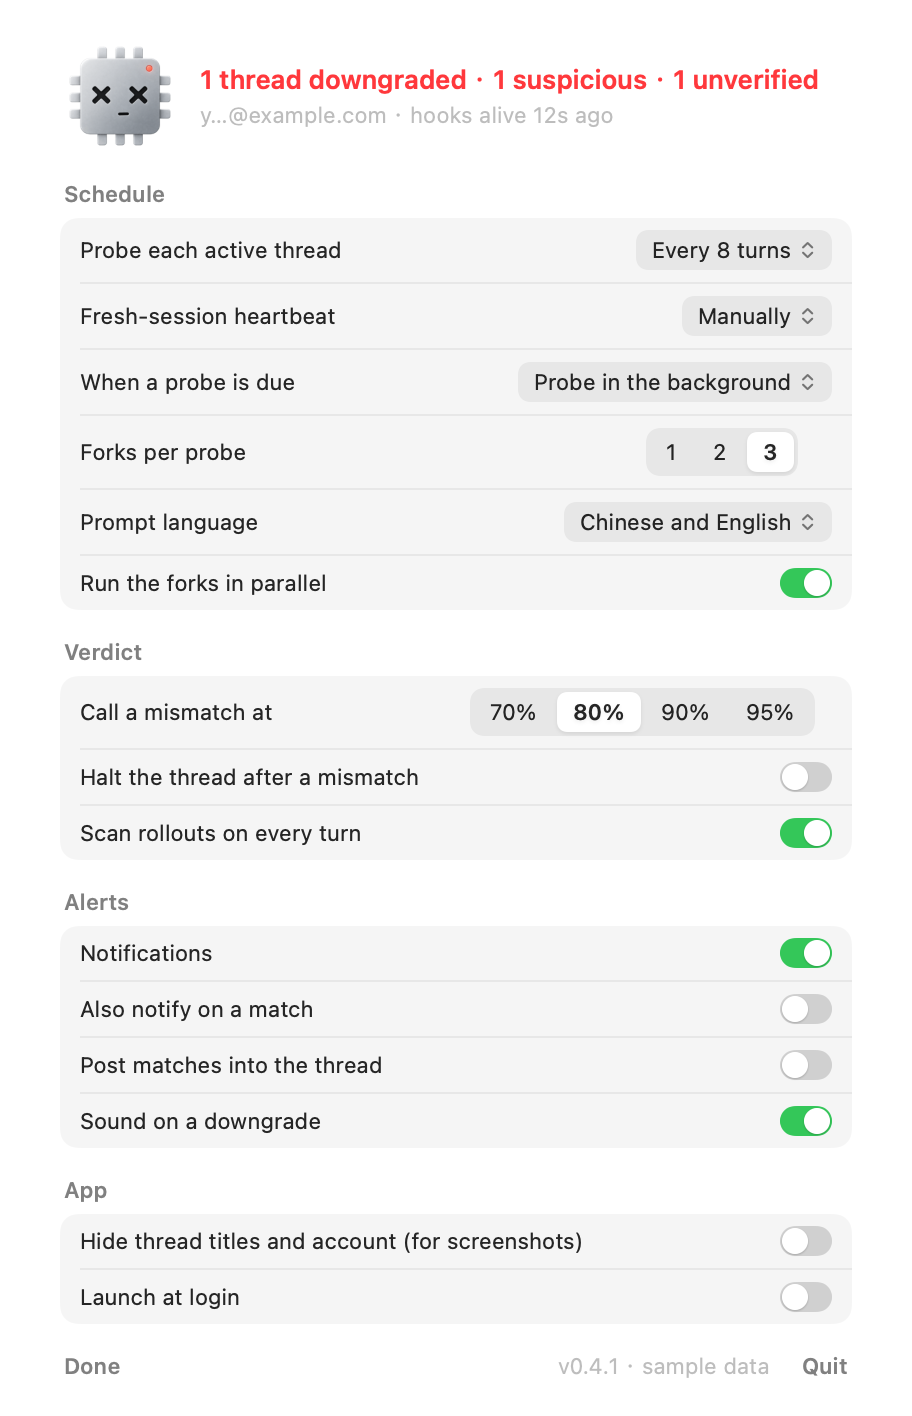
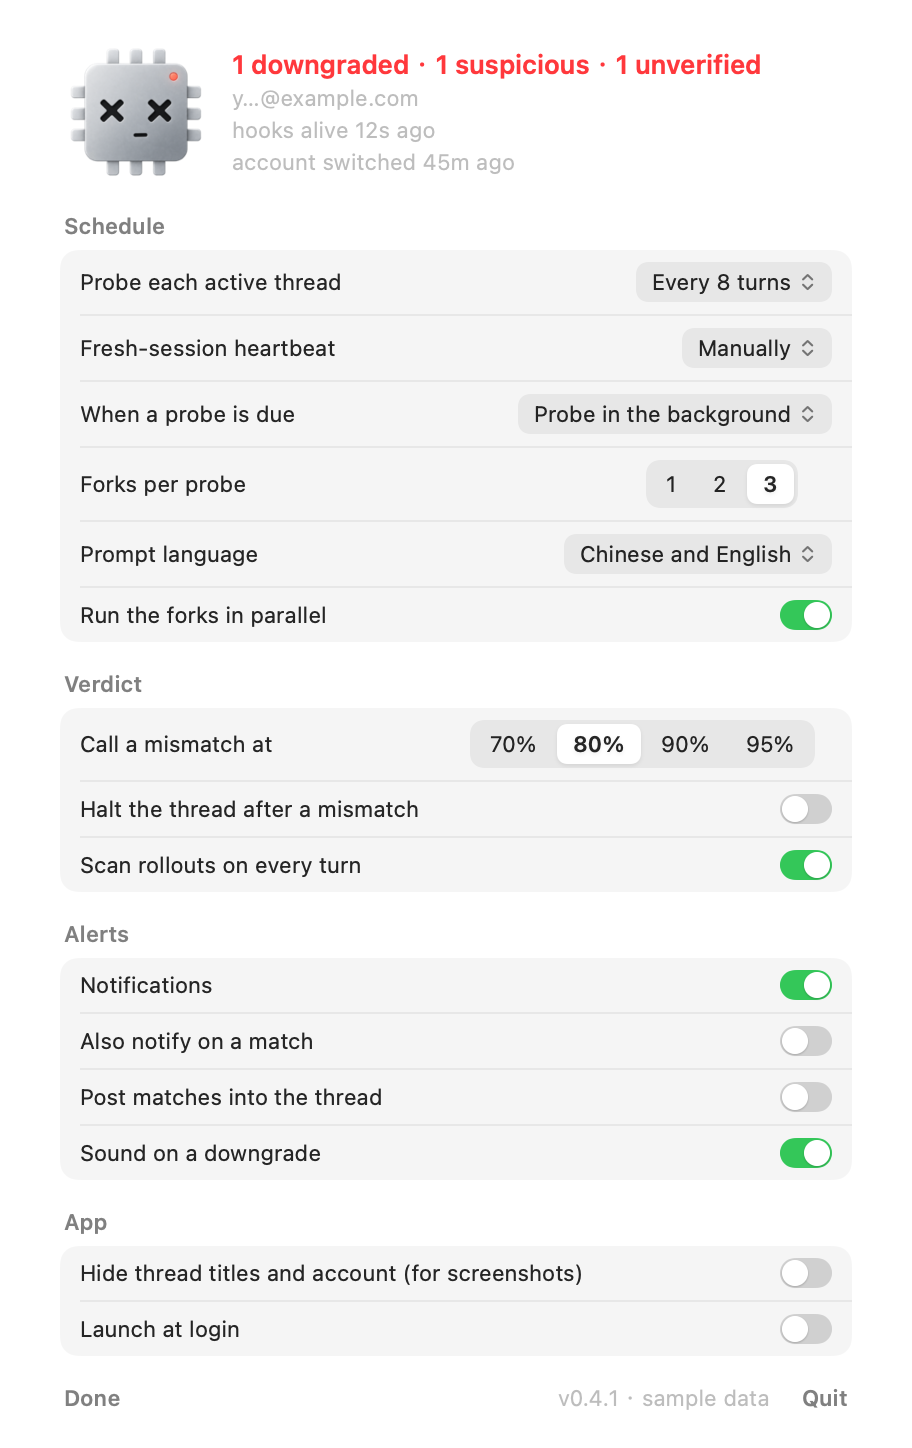
Panel: report slides in beside the title instead of stacking; header is the 72 pt face with one line per fact
- Click a thread and the lines under its title slide out to the left while the report slides in from the right: last verdict, fingerprint, probe facts, earlier probes, evidence with what was reverted, Copy report. Only that row changes height. Rows with nothing to report do not open (no more duplicated "No probe yet").
- Header: face cropped to the chip at 72 pt; beside it the headline (wraps if it must) and one short line each for account, hooks and an account switch. The headline says "1 downgraded" rather than "1 thread downgraded" so it fits.

diff --git a/macos/Sources/IsGPTNerfed/PanelView.swift b/macos/Sources/IsGPTNerfed/PanelView.swift
@@ -80,7 +80,7 @@ struct FaceView: View {
     let alert: Bool
     let warn: Bool
     let running: Bool
-    var size: CGFloat = 56
+    var size: CGFloat = 72
 
     private var image: NSImage? {
         let name = alert ? "face-alert" : (warn ? "face-warn" : "face-ok")
@@ -165,25 +165,19 @@ struct PanelView: View {
 
     // MARK: header
 
-    // The face, then two lines: the verdict of the moment, and account and plumbing in one quiet line.
+    // The face, and beside it the verdict of the moment over one short line per fact (account, hooks, switch).
     private var header: some View {
-        HStack(spacing: 12) {
+        HStack(alignment: .center, spacing: 12) {
             FaceView(alert: store.isAlert, warn: store.isWarn, running: store.isRunning)
-            VStack(alignment: .leading, spacing: 3) {
+            VStack(alignment: .leading, spacing: 2) {
                 Text(statusWord)
                     .font(Type.title)
                     .foregroundStyle(store.isAlert ? .red : (store.isWarn ? .orange : .primary))
-                    .lineLimit(1)
+                    .lineLimit(2)
                 if let (text, attention) = hooksLine, attention {
-                    Text(text).font(Type.strong).foregroundStyle(.orange).lineLimit(1)
-                } else {
-                    // One quiet line, never wrapped: drop the least important part until it fits.
-                    ViewThatFits(in: .horizontal) {
-                        ForEach(statusRestCandidates, id: \.self) { Text($0).lineLimit(1).fixedSize(horizontal: true, vertical: false) }
-                        Text(statusRestCandidates.last ?? "").lineLimit(1)
-                    }
-                    .font(Type.text).foregroundStyle(.tertiary)
+                    Text(text).font(Type.strong).foregroundStyle(.orange).lineLimit(2)
                 }
+                ForEach(quietLines, id: \.self) { Text($0).font(Type.text).foregroundStyle(.tertiary).lineLimit(1) }
             }
             Spacer(minLength: 0)
         }
@@ -197,18 +191,14 @@ struct PanelView: View {
         return m.prefix(1).uppercased() + m.dropFirst()
     }
 
-    /// "w…@example.com · hooks alive 12s ago · switched 45m ago", then the same without the switch note, then the
-    /// account alone: the first that fits on one line is shown.
-    private var statusRestCandidates: [String] {
-        guard let s = store.snapshot, store.lastError == nil else { return [""] }
-        let acct = s.account?.label ?? ""
-        let hooks = hooksLine?.0
-        let switched = s.account?.switchedAgo.map { "switched \($0)" }
-        let full = [acct, hooks, switched].compactMap { $0 }.filter { !$0.isEmpty }
-        let noSwitch = [acct, hooks].compactMap { $0 }.filter { !$0.isEmpty }
+    /// "w…@example.com", "hooks alive 12s ago", "account switched 45m ago": one line each, only when there is something to say.
+    private var quietLines: [String] {
+        guard let s = store.snapshot, store.lastError == nil else { return [] }
         var out: [String] = []
-        for c in [full.joined(separator: " · "), noSwitch.joined(separator: " · "), acct] where !c.isEmpty && !out.contains(c) { out.append(c) }
-        return out.isEmpty ? [""] : out
+        if let acct = s.account?.label, !acct.isEmpty { out.append(acct) }
+        if let (text, attention) = hooksLine, !attention { out.append(text) }
+        if let ago = s.account?.switchedAgo, !ago.isEmpty { out.append("account switched \(ago)") }
+        return out
     }
 
     /// Hook plumbing state; attention = true whenever Codex will not run the hooks yet.
@@ -307,17 +297,24 @@ struct PanelView: View {
         let running = snap?.globalRunning ?? false
         let last = snap?.globalProbe
         return Group(title: "Fresh session", trailing: "\(snap?.defaultModel ?? "default model")\(snap?.defaultEffort.map { " @ \($0)" } ?? "")") {
-            ExpandableRow(isOpen: open == "fresh", toggle: { toggle("fresh") }) {
-                HStack(alignment: .center, spacing: 8) {
+            let history = snap?.globalProbes ?? (last.map { [$0] } ?? [])
+            ExpandableRow(canOpen: ReportLines.hasContent(probes: history, evidence: []), toggle: { toggle("fresh") }) {
+                HStack(alignment: .top, spacing: 8) {
                     Circle().fill(last.map { ($0.isFailure || $0.staleAccount == true) ? Color.secondary.opacity(0.35) : $0.tint } ?? Color.secondary.opacity(0.35))
-                        .frame(width: 7, height: 7)
-                    if running {
-                        ProgressView().controlSize(.mini)
-                        Text("Probing \(snap?.config.queries ?? 3) new ephemeral sessions…").font(Type.text).foregroundStyle(.secondary)
-                    } else if let p = last {
-                        VerdictLine(probe: p)
-                    } else {
-                        Text("Never probed · a new session, no thread context").font(Type.text).foregroundStyle(.secondary)
+                        .frame(width: 7, height: 7).padding(.top, 4)
+                    SwapLines(isOpen: open == "fresh") {
+                        if running {
+                            HStack(spacing: 5) {
+                                ProgressView().controlSize(.mini)
+                                Text("Probing \(snap?.config.queries ?? 3) new ephemeral sessions…").font(Type.text).foregroundStyle(.secondary)
+                            }
+                        } else if let p = last {
+                            VerdictLine(probe: p)
+                        } else {
+                            Text("Never probed · a new session, no thread context").font(Type.text).foregroundStyle(.secondary)
+                        }
+                    } report: {
+                        ReportLines(probes: history, evidence: [], reportText: snap?.globalReportText)
                     }
                     Spacer(minLength: 8)
                     if !running {
@@ -326,9 +323,6 @@ struct PanelView: View {
                     }
                 }
                 .padding(.horizontal, 10).padding(.vertical, 7)
-            } detail: {
-                DetailView(probes: snap?.globalProbes ?? (last.map { [$0] } ?? []), evidence: [], reportText: snap?.globalReportText,
-                           empty: "No fresh-session probe yet. Probe starts new ephemeral sessions with the default model and no history.")
             }
             .contextMenu {
                 if !running { Button(last?.retryable == true ? "Retry the probe" : "Probe now") { store.probeFresh() } }
@@ -354,42 +348,57 @@ struct PanelView: View {
 
 // MARK: - Rows that open in place
 
-/// The summary stays where it is and the report slides in under it, so nothing else in the panel moves.
-/// A hover tint and a link pointer say the row is clickable; the row's own button keeps its own click.
-struct ExpandableRow<Summary: View, Detail: View>: View {
+/// A clickable row. Its content decides what to show for the open state; the row adds the hover tint, the link
+/// pointer and the click (the row's own button keeps its own click). Rows with nothing to report do not open.
+struct ExpandableRow<Content: View>: View {
     @Environment(\.plainRendering) private var plain
-    let isOpen: Bool
+    let canOpen: Bool
     let toggle: () -> Void
-    @ViewBuilder let summary: () -> Summary
-    @ViewBuilder let detail: () -> Detail
+    @ViewBuilder let content: () -> Content
     @State private var hovered = false
 
     var body: some View {
-        VStack(alignment: .leading, spacing: 0) {
-            summary()
-                .contentShape(Rectangle())
-                .onTapGesture(perform: toggle)
-            if isOpen {
-                detail().transition(.opacity.combined(with: .move(edge: .top)))
-            }
-        }
-        .background(hovered && !plain ? Color.primary.opacity(0.035) : Color.clear)
-        .onHover { hovered = $0 }
-        .pointerStyle(.link)
+        content()
+            .contentShape(Rectangle())
+            .onTapGesture { if canOpen { toggle() } }
+            .clipped()
+            .background(hovered && canOpen && !plain ? Color.primary.opacity(0.035) : Color.clear)
+            .onHover { hovered = $0 }
+            .pointerStyle(canOpen ? .link : .default)
     }
 }
 
-/// The report, in place: fingerprint, probe facts, earlier probes, evidence with what was reverted. Text only.
-struct DetailView: View {
+/// The lines under a title swap between the summary and the report: the summary slides out to the left, the
+/// report slides in from the right, in the same place. Only this row changes height.
+struct SwapLines<Summary: View, Report: View>: View {
+    let isOpen: Bool
+    @ViewBuilder let summary: () -> Summary
+    @ViewBuilder let report: () -> Report
+
+    var body: some View {
+        if isOpen {
+            report().transition(.move(edge: .trailing).combined(with: .opacity))
+        } else {
+            summary().transition(.move(edge: .leading).combined(with: .opacity))
+        }
+    }
+}
+
+/// The report: last verdict, fingerprint, probe facts, earlier probes, evidence with what was reverted. Text only.
+struct ReportLines: View {
     @Environment(Store.self) private var store
     let probes: [ProbeSummary]
     let evidence: [EvidenceInfo]
     let reportText: String?
-    let empty: String
+
+    static func hasContent(probes: [ProbeSummary], evidence: [EvidenceInfo]) -> Bool {
+        !probes.isEmpty || !evidence.isEmpty
+    }
 
     var body: some View {
-        VStack(alignment: .leading, spacing: 4) {
+        VStack(alignment: .leading, spacing: 3) {
             if let p = probes.first {
+                VerdictLine(probe: p)
                 if let r = p.results, !r.isEmpty, !p.isFailure, p.staleAccount != true {
                     fact("Fingerprint", r.map { "\($0.model ?? "?") \(ProbeSummary.pct($0.probability))" }.joined(separator: " · "))
                 }
@@ -403,7 +412,7 @@ struct DetailView: View {
                          : "probed under another Codex account; it does not vouch for this one")
                 }
             } else {
-                Text(empty).foregroundStyle(.tertiary).lineLimit(2)
+                Text("No probe yet").foregroundStyle(.tertiary)
             }
             ForEach(Array(probes.dropFirst().prefix(4))) { p in
                 HStack(spacing: 4) {
@@ -423,12 +432,11 @@ struct DetailView: View {
                     Spacer()
                     TextButton(title: "Copy report") { store.copy(reportText) }
                 }
-                .padding(.top, 2)
             }
         }
         .font(Type.text)
         .foregroundStyle(.secondary)
-        .padding(.leading, 25).padding(.trailing, 10).padding(.bottom, 8)
+        .frame(maxWidth: .infinity, alignment: .leading)
     }
 
     private func fact(_ label: String, _ value: String, tint: Color = .secondary) -> some View {
@@ -488,30 +496,38 @@ struct ThreadRow: View {
         return .secondary.opacity(0.35)
     }
 
+    private var history: [ProbeSummary] { thread.probes ?? (thread.lastProbe.map { [$0] } ?? []) }
+
     var body: some View {
-        ExpandableRow(isOpen: isOpen, toggle: toggle) {
+        ExpandableRow(canOpen: ReportLines.hasContent(probes: history, evidence: thread.evidence ?? []), toggle: toggle) {
             HStack(alignment: .center, spacing: 10) {
                 HStack(alignment: .top, spacing: 8) {
                     Circle().fill(dot).frame(width: 7, height: 7).padding(.top, 5)
                     VStack(alignment: .leading, spacing: 2) {
                         Text(thread.title).font(Type.title).lineLimit(1)
-                        Text(meta).font(Type.text).foregroundStyle(.secondary).lineLimit(1)
-                        if thread.probeRunning {
-                            HStack(spacing: 5) {
-                                ProgressView().controlSize(.mini)
-                                Text(thread.probeNote.map { "Probing · \($0)…" } ?? "Probing, ephemeral forks in flight…").font(Type.text).foregroundStyle(.secondary)
+                        SwapLines(isOpen: isOpen) {
+                            VStack(alignment: .leading, spacing: 2) {
+                                Text(meta).font(Type.text).foregroundStyle(.secondary).lineLimit(1)
+                                if thread.probeRunning {
+                                    HStack(spacing: 5) {
+                                        ProgressView().controlSize(.mini)
+                                        Text(thread.probeNote.map { "Probing · \($0)…" } ?? "Probing, ephemeral forks in flight…").font(Type.text).foregroundStyle(.secondary)
+                                    }
+                                } else if let p = thread.lastProbe {
+                                    VerdictLine(probe: p)
+                                } else {
+                                    Text(thread.due ? "No probe yet · due" : "No probe yet").font(Type.text).foregroundStyle(.tertiary)
+                                }
+                                if thread.hardEvidence > 0, let ev = thread.lastEvidence {
+                                    EvidenceLine(text: ev, ago: thread.lastEvidenceAgo, color: .red)
+                                        .help("Found in the thread's own records, independent of any probe, and still in effect. Click the row for the history.")
+                                } else if thread.softEvidence > 0, let ev = thread.lastEvidence {
+                                    EvidenceLine(text: ev, ago: thread.lastEvidenceAgo, color: .orange)
+                                        .help("Applied through thread settings and still in effect: either you changed it, or Codex did (it lowers effort automatically at usage limits). Click the row for the history.")
+                                }
                             }
-                        } else if let p = thread.lastProbe {
-                            VerdictLine(probe: p)
-                        } else {
-                            Text(thread.due ? "No probe yet · due" : "No probe yet").font(Type.text).foregroundStyle(.tertiary)
-                        }
-                        if thread.hardEvidence > 0, let ev = thread.lastEvidence {
-                            EvidenceLine(text: ev, ago: thread.lastEvidenceAgo, color: .red)
-                                .help("Found in the thread's own records, independent of any probe, and still in effect. Open the row for the history.")
-                        } else if thread.softEvidence > 0, let ev = thread.lastEvidence {
-                            EvidenceLine(text: ev, ago: thread.lastEvidenceAgo, color: .orange)
-                                .help("Applied through thread settings and still in effect: either you changed it, or Codex did (it lowers effort automatically at usage limits). Open the row for the history.")
+                        } report: {
+                            ReportLines(probes: history, evidence: thread.evidence ?? [], reportText: thread.reportText)
                         }
                     }
                 }
@@ -519,9 +535,6 @@ struct ThreadRow: View {
                 action
             }
             .padding(.horizontal, 10).padding(.vertical, 8)
-        } detail: {
-            DetailView(probes: thread.probes ?? (thread.lastProbe.map { [$0] } ?? []), evidence: thread.evidence ?? [],
-                       reportText: thread.reportText, empty: thread.due ? "No probe yet · due at the next turn" : "No probe yet")
         }
         .contextMenu {
             if !thread.probeRunning, !thread.halted {

diff --git a/CHANGELOG.md b/CHANGELOG.md
@@ -2,10 +2,11 @@
 
 ## 0.4.1 — 2026-09-15
 
-- Panel: click a thread (or the fresh-session row) to open its report in place: fingerprint, probe facts, earlier
-  probes, evidence with what was reverted; right-click for Probe, Copy report, Reveal folder. Fresh session sits
-  below the threads, the face is larger, the panel a little narrower. The Report window is gone (the report lives
-  in the rows; `nerfed report` remains).
+- Panel: click a thread (or the fresh-session row) and the lines under its title slide aside for its report:
+  last verdict, fingerprint, probe facts, earlier probes, evidence with what was reverted, Copy report; nothing
+  else moves. Right-click for Probe, Copy report, Reveal folder. Settings is a page of its own. Fresh session sits
+  below the threads; the header is the chip face with one short line per fact; the panel is a little narrower.
+  The Report window is gone (the report lives in the rows; `nerfed report` remains).
 - Probes: a Suspicious first round no longer triggers a second one by default (`confirm_uncertain` is opt in), so a
   probe costs three answers.
 - Scanner: Codex's usage-limit snapshot in the rollout is not read as a serving signal (it is the last limit family
